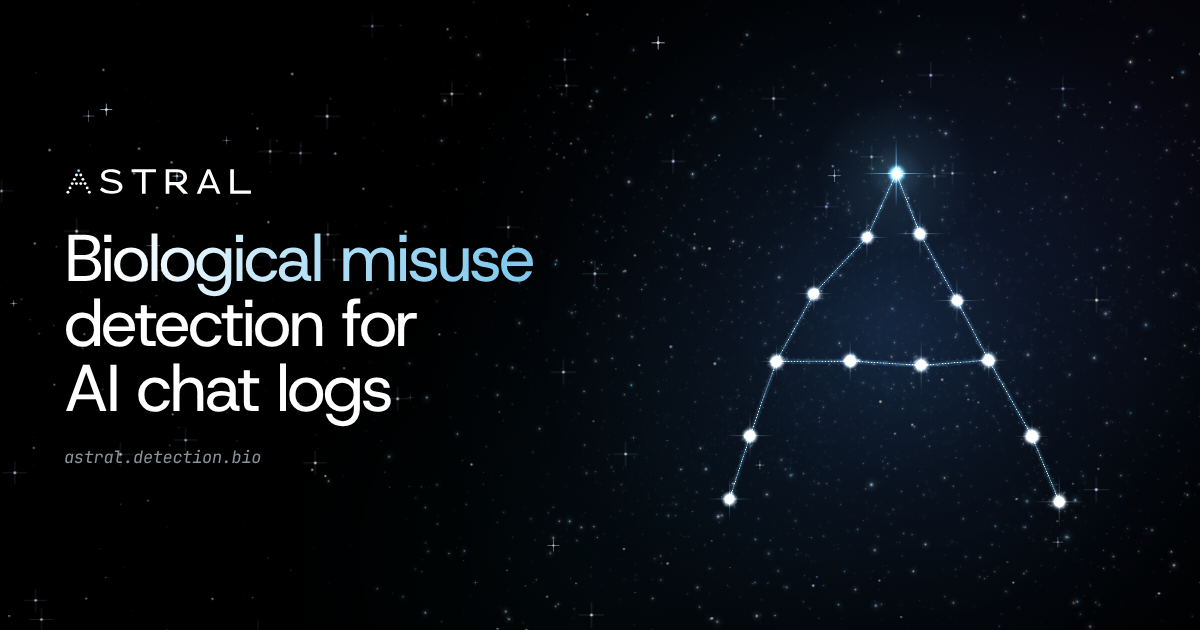
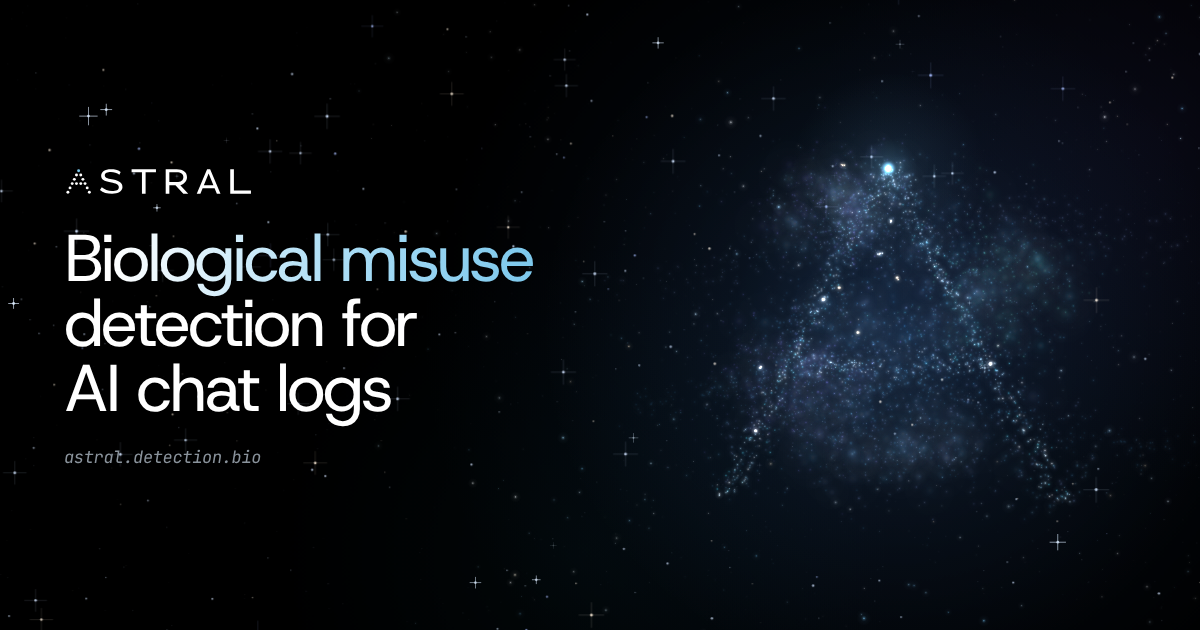
Open with a nebula that forms the ASTRAL mark; drop heading labels
Claude-Session: https://claude.ai/code/session_01GrFGuY8UBKNScDgXKwUbti

diff --git a/docs/scroll-visual.js b/docs/scroll-visual.js
@@ -1,4 +1,4 @@
-/* ASTRAL scroll visual: ASTRAL constellation -> double helix -> transcripts -> flagged -> priority list.
+/* ASTRAL scroll visual: nebula forming the ASTRAL mark -> double helix -> transcripts -> flagged -> priority list.
    Decorative and synthetic: no data, no network requests.
    One 3D particle field seen through a perspective camera. Each stage gives every particle a place;
    moving between stages sends particles along curved paths while the camera glides to a new view. */
@@ -35,7 +35,7 @@
   const SPRITE_K = [1 / .17, 1 / .36]; // half-size of the drawn sprite per unit of dot radius
 
   const STAGES = [
-    { name: 'Constellation', cam: { yaw: -.2, pitch: .08, dist: 4.75, roll: 0, tx: .02, ty: .02, tz: 0 }, arc: .5, tr: 1.7, spread: 1 },
+    { name: 'Nebula', cam: { yaw: -.2, pitch: .08, dist: 4.75, roll: 0, tx: .02, ty: .02, tz: 0 }, arc: .5, tr: 1.7, spread: 1 },
     { name: 'Helix', cam: { yaw: .64, pitch: .1, dist: 4.55, roll: -.4, tx: -.42, ty: .06, tz: 0 }, arc: .45, tr: 1.7, spread: 1 },
     { name: 'Transcripts', cam: { yaw: -.36, pitch: .06, dist: 4.4, roll: 0, tx: .16, ty: 0, tz: .32 }, arc: .5, tr: 1.6, spread: .6 },
     { name: 'Flagged', cam: { yaw: -.3, pitch: .05, dist: 4.2, roll: 0, tx: .16, ty: 0, tz: .32 }, arc: .12, tr: .55 },
@@ -80,75 +80,85 @@
       idx.forEach((slot, rank) => (L.map[rank] = slot));
     }
 
-    // Constellation: the ASTRAL mark drawn as stars. Thirteen bright stars sit where the logo's dots are, dotted
-    // lines join them (the apex first, down both sides together, then the crossbar from both ends), and a deep
-    // field of faint stars and haze surrounds them. Once drawn, a pulse of light runs along the lines now and then.
-    const MARK = [[32, 6], [27, 16], [37, 16], [22, 26], [42, 26], [17, 36], [27, 36], [37, 36], [47, 36], [12, 46], [52, 46], [7, 56], [57, 56]];
-    const MARK_R = 1.2, SEG = .3, DRAWN = 5 * SEG, PULSE = 6.5;
-    // [from, to, start, duration] in seconds from the start of the drawing; point 13 is the middle of the crossbar.
-    const STROKES = [];
-    [[0, 1, 3, 5, 9, 11], [0, 2, 4, 8, 10, 12]].forEach(side => { for (let k = 0; k < 5; k++) STROKES.push([side[k], side[k + 1], k * SEG, SEG]); });
-    STROKES.push([5, 6, 3 * SEG, SEG], [8, 7, 3 * SEG, SEG], [6, 13, 4 * SEG, SEG * .6], [7, 13, 4 * SEG, SEG * .6]);
-    let C0 = .3, lineFade = 0;              // when the drawing starts (seconds into the stage); overlay line strength
-    const starT = new Float32Array(13);     // when each star lights, from the start of the drawing
-    function buildMark() {
-      const r = rng(7), g = gaussian(r), L = slots(N, ['q', 'kind', 'star', 'ph', 'tw']);
-      const pts = MARK.map(([x, y], j) => [(x - 32) / 26 * MARK_R + g() * .018, (31 - y) / 26 * MARK_R + g() * .018, j ? g() * .12 : .22]);
-      pts.push(pts[6].map((v, k) => (v + pts[7][k]) / 2));
-      starT.fill(99); starT[0] = -.15;
-      STROKES.forEach(([a, b, t0, d]) => { starT[a] = Math.min(starT[a], t0); if (b < 13) starT[b] = Math.min(starT[b], t0 + d); });
-      const centre = [];
+    // Nebula: a soft cloud of blue, violet and teal gas with a few young stars. As the page opens, part of the gas
+    // gathers along the strokes of the ASTRAL mark, so a faint "A" forms inside the cloud, its apex an ice-blue star.
+    const MARK_R = 1.2, FORM0 = .35, FORM_T = 2.6;
+    const A_STROKES = [[32, 6, 7, 56], [32, 6, 57, 56], [17, 36, 47, 36]]; // logo units: both sides, then the crossbar
+    const toWorld = (x, y) => [(x - 32) / 26 * MARK_R, (31 - y) / 26 * MARK_R];
+    const APEX = toWorld(32, 6);
+    let C0 = .3, glowFade = 0;            // when the forming starts (seconds into the stage); apex glow strength
+    function formAt() { return reduce.matches ? 1 : ease(clamp((st - C0 - FORM0) / FORM_T)); }
+    function buildNebula() {
+      const r = rng(7), g = gaussian(r), L = slots(N, ['hx', 'hy', 'hz', 'w', 'ph', 'kind']);
       let n = 0;
-      const put = (x, y, z, col, sty, size, a, kind, q, star) => {
-        L.x[n] = x; L.y[n] = y; L.z[n] = z; L.col[n] = col; L.sty[n] = sty; L.size[n] = size; L.a[n] = a;
-        L.kind[n] = kind; L.q[n] = q; L.star[n] = star; L.ph[n] = r() * TAU; L.tw[n] = .3 + r() * 1.4;
+      // (x, y, z) is where a particle settles; (hx, hy, hz) is where it waits in the cloud before the mark forms
+      const put = (x, y, z, hx, hy, hz, col, size, a, kind) => {
+        L.x[n] = x; L.y[n] = y; L.z[n] = z; L.hx[n] = hx; L.hy[n] = hy; L.hz[n] = hz;
+        L.col[n] = col; L.sty[n] = 0; L.size[n] = size; L.a[n] = a; L.kind[n] = kind;
+        L.ph[n] = r() * TAU; L.w[n] = (.4 + r() * .8) * (r() < .5 ? -1 : 1);
         L.key[n] = clamp((x + 3.4) / 6.8 + g() * .01); n++;
       };
-      // stars: a hot core with a soft halo; the first particle of each sits exactly on the star
-      pts.slice(0, 13).forEach(([x, y, z], j) => {
-        const apex = j === 0, core = mobile ? 12 : 20, halo = mobile ? 6 : 12;
-        centre.push(n);
-        for (let k = 0; k < core; k++) { const sp = k ? .007 : 0; put(x + g() * sp, y + g() * sp, z + g() * sp, apex ? BLUE[k % 3 ? 5 : 6] : (k % 4 ? WHITE : BLUE[7]), 0, (apex ? 1.35 : 1.05) + r() * .45, .85, 0, 0, j); }
-        for (let k = 0; k < halo; k++) { const sp = .035 + r() * .04, an = r() * TAU; put(x + Math.cos(an) * sp, y + Math.sin(an) * sp, z + g() * .01, apex ? BLUE[5] : BLUE[6], 0, .5 + r() * .3, .2, 0, 0, j); }
-      });
-      // dotted lines: crisp beads on the line and a soft glow beside it; q is when each bead is reached
-      STROKES.forEach(([a, b, t0, d]) => {
-        const A = pts[a], B = pts[b], len = Math.hypot(B[0] - A[0], B[1] - A[1], B[2] - A[2]), steps = Math.max(4, Math.round(len / .021));
-        for (let k = 1; k < steps; k++) {
-          const v = k / steps, x = mix(A[0], B[0], v), y = mix(A[1], B[1], v), z = mix(A[2], B[2], v);
-          put(x, y, z, BLUE[6], 1, .36, .72, 1, t0 + v * d, -1);
-          if (!mobile || k % 2) put(x + g() * .014, y + g() * .014, z + g() * .01, BLUE[5], 0, .42, .2, 1, t0 + v * d, -1);
-        }
-      });
-      // haze behind the mark, a faint diagonal band far away, and a deep field of stars
-      const room = N - n, nHaze = Math.round(room * .14), nBand = Math.round(room * .12);
-      for (let k = 0; k < nHaze; k++) put(g() * .95, g() * .75 - .05, .4 + Math.abs(g()) * .8, BLUE[2 + Math.floor(r() * 3)], 0, .55 + r() * .4, .05 + r() * .09, 2, 0, -1);
-      for (let k = 0; k < nBand; k++) { const u = r() * 2 - 1; put(u * 3.6, u * 1.1 - .2 + g() * .32, 2.2 + r() * 1.4, BLUE[3 + Math.floor(r() * 3)], 0, .35 + r() * .3, .08 + .14 * r(), 2, 0, -1); }
+      const nGas = Math.round(N * .43), nPuff = Math.round(N * .075), nA = Math.round(N * .27), nStar = mobile ? 3 : 4;
+      // gas: overlapping clouds of different colours, and two faint filaments
+      const blobs = [[0, .05, 0, .95, .8, .45, [BLUE[4], BASE[3], BLUE[3]]], [-.75, -.35, .2, .65, .5, .4, [BASE[1], BASE[1], BLUE[4]]],
+        [.75, .3, -.1, .6, .5, .35, [BASE[2], BASE[0], BLUE[4]]], [.1, -.75, .1, .8, .35, .3, [BASE[3], BLUE[4]]], [-.3, .85, -.2, .55, .35, .3, [BASE[1], BLUE[5]]]];
+      for (let k = 0; k < nGas; k++) {
+        let x, y, z, col;
+        if (r() < .22) { const u = r() * 2 - 1, side = k & 1 ? 1 : -1; x = u * 1.9; y = side * (.55 + .25 * Math.sin(u * 2.2 + side)) + g() * .06; z = g() * .25; col = side > 0 ? BASE[3] : BLUE[4]; }
+        else { const b = blobs[Math.floor(Math.pow(r(), 1.2) * blobs.length)]; x = b[0] + g() * b[3] * .55; y = b[1] + g() * b[4] * .55; z = b[2] + g() * b[5] * .5; col = b[6][Math.floor(r() * b[6].length)]; }
+        const core = Math.exp(-(x * x / 1.1 + y * y / .7));
+        put(x, y, z, x, y, z, col, .45 + r() * .5, .08 + .22 * core * r() + .06 * r(), 0);
+      }
+      // large faint puffs give the cloud volume
+      for (let k = 0; k < nPuff; k++) {
+        const b = blobs[k % blobs.length], x = b[0] + g() * b[3] * .45, y = b[1] + g() * b[4] * .45, z = b[2] + g() * b[5] * .4;
+        put(x, y, z, x, y, z, b[6][k % b[6].length], 2.8 + r() * 2.4, .04 + .045 * r(), 0);
+      }
+      // the mark: gas condensing along each stroke, a bright core with a wider glow around it
+      const lens = A_STROKES.map(([x0, y0, x1, y1]) => Math.hypot(x1 - x0, y1 - y0)), total = lens.reduce((a, b) => a + b);
+      for (let k = 0; k < nA; k++) {
+        let pick = r() * total, j = 0; while (pick > lens[j]) pick -= lens[j++];
+        const [x0, y0, x1, y1] = A_STROKES[j], u = r(), [ax, ay] = toWorld(mix(x0, x1, u), mix(y0, y1, u));
+        const len = lens[j], px = (y1 - y0) / len, py = (x1 - x0) / len, halo = r() < .5, sd = halo ? .12 : .045 + .015 * Math.sin(u * 9 + j);
+        const off = g() * sd, x = ax + px * off, y = ay + py * off, z = g() * (halo ? .08 : .04);
+        const hx = x + g() * .32, hy = y + g() * .3, hz = z + g() * .25;
+        const col = halo ? [BLUE[4], BLUE[5], BASE[3]][Math.floor(r() * 3)] : [BLUE[6], BLUE[7], BLUE[6], BASE[0], WHITE][Math.floor(r() * 5)];
+        put(x, y, z, hx, hy, hz, col, halo ? .65 + r() * .4 : .5 + r() * .4, halo ? .07 + .08 * r() : .2 + .22 * r(), 1);
+      }
+      // young stars: the apex in ice blue, a few small ones on the mark, a few loose in the cloud
+      const starAt = (x, y, z, col, size, count, kind) => { for (let k = 0; k < count; k++) { const sp = k ? .006 : 0; put(x + g() * sp, y + g() * sp, z + g() * sp, x + g() * .2, y + g() * .2, z, col, size * (.8 + r() * .4), .8, kind); } };
+      const apexSlot = n; starAt(APEX[0], APEX[1], .05, BLUE[5], 1.25, mobile ? 10 : 16, 2);
+      [[22, 26], [47, 36], [12, 46]].forEach(([lx, ly]) => { const [x, y] = toWorld(lx, ly); starAt(x, y, g() * .05, WHITE, .8, nStar, 2); });
+      for (let k = 0; k < 7; k++) { const x = g() * .9, y = g() * .6, z = g() * .3; starAt(x, y, z, r() < .7 ? WHITE : WARM[2], .7, nStar, 3); }
+      // a deep field of faint stars behind everything
       while (n < N) {
-        const mag = Math.pow(r(), 2.6), tint = r();
-        put((r() * 2 - 1) * 3.4, (r() * 2 - 1) * 2.2, -1.1 + r() * 4.4, tint < .72 ? BLUE[5 + Math.floor(r() * 4)] : tint < .92 ? WHITE : WARM[2 + Math.floor(r() * 3)], 0, .3 + mag * .75, .12 + .5 * mag, 3, 0, -1);
+        const mag = Math.pow(r(), 2.6), tint = r(), x = (r() * 2 - 1) * 3.4, y = (r() * 2 - 1) * 2.2, z = -1.1 + r() * 4.4;
+        put(x, y, z, x, y, z, tint < .72 ? BLUE[5 + Math.floor(r() * 4)] : tint < .92 ? WHITE : WARM[2 + Math.floor(r() * 3)], .3 + mag * .7, .1 + .45 * mag, 4);
       }
       finishMap(L);
       L.inv = new Int32Array(N); for (let i = 0; i < N; i++) L.inv[L.map[i]] = i;
-      L.centre = centre;
+      L.apex = apexSlot;
       return L;
     }
-    function markAt(s, out) {
-      const kind = C.kind[s], t = st - C0;
-      out.x = C.x[s]; out.y = C.y[s]; out.z = C.z[s];
-      out.col = C.col[s]; out.sty = C.sty[s]; out.size = C.size[s]; out.a = C.a[s]; out.col2 = -1; out.w2 = 0;
-      const pulse = !reduce.matches && t > DRAWN + 1.2 ? (t - DRAWN - 1.2) % PULSE : -9;
-      if (kind === 0) {                        // star: lights when the line reaches it, then flares with each pulse
-        const ts = starT[C.star[s]], on = easeOut((t - ts + .1) / .35), flash = Math.exp(-Math.pow((t - ts - .12) / .16, 2));
-        const pf = pulse > -9 ? Math.exp(-Math.pow((pulse - ts * .8) / .18, 2)) : 0;
-        out.a *= mix(.12, 1, on); out.size *= mix(.55, 1, on) * (1 + .5 * flash + .35 * pf);
-      } else if (kind === 1) {                 // line bead: appears as the drawing passes, brightens as a pulse passes
-        const q = C.q[s], on = clamp((t - q) / .12), pb = pulse > -9 ? Math.exp(-Math.pow((pulse - q * .8) / .09, 2)) : 0;
-        out.a *= on * (1 + 1.1 * pb); out.size *= 1 + .7 * pb;
-        if (pb > .05) { out.col2 = WHITE; out.w2 = Math.min(1, pb); }
-      } else if (kind === 3) {                 // background star: a slow twinkle
-        out.a *= .72 + .28 * Math.sin(clock * C.tw[s] + C.ph[s]);
+    function nebulaAt(s, out) {
+      const kind = C.kind[s], ph = C.ph[s], w = C.w[s];
+      let x = C.x[s], y = C.y[s], z = C.z[s];
+      out.col = C.col[s]; out.sty = 0; out.size = C.size[s]; out.a = C.a[s]; out.col2 = -1; out.w2 = 0;
+      if (kind === 1 || kind === 2) {           // gathers from the cloud into the mark
+        const f = formAt(), k = clamp(f * 1.15 - (ph / TAU) * .15);
+        x = mix(C.hx[s], x, k); y = mix(C.hy[s], y, k); z = mix(C.hz[s], z, k);
+        if (kind === 1) { out.a *= mix(.45, 1, k); x += Math.sin(clock * .5 + ph) * .006; y += Math.cos(clock * .43 + ph) * .006; }
+        else { out.a *= mix(.1, 1, k); out.size *= mix(.5, 1, k) * (1 + .08 * Math.sin(clock * 1.7 + ph)); }
+      } else if (kind === 0) {                  // gas turns slowly and breathes
+        const an = clock * .02 * w, c = Math.cos(an), sn = Math.sin(an);
+        const x0 = x; x = x0 * c - z * sn; z = x0 * sn + z * c; y += Math.sin(clock * .21 + ph) * .02;
+        out.a *= .8 + .2 * Math.sin(clock * .3 + ph);
+      } else if (kind === 3) {
+        out.a *= .75 + .25 * Math.sin(clock * 1.1 + ph);
+      } else {
+        out.a *= .72 + .28 * Math.sin(clock * (.4 + Math.abs(w)) + ph);
       }
+      out.x = x; out.y = y; out.z = z;
     }
 
     // Helix: two glowing backbones, base-pair rungs in two colour pairs, and a faint sheath of drifting particles.
@@ -356,7 +366,7 @@
     }
     function target(i, out) {
       switch (stage) {
-        case 0: markAt(C.map[i], out); break;
+        case 0: nebulaAt(C.map[i], out); break;
         case 1: helixAt(HX.map[i], out); break;
         default: cardAt(CD.map[i], stage - 2, out);
       }
@@ -445,8 +455,8 @@
       }
       ctx.globalAlpha = 1;
       if (cardStage && nCards) overlays();
-      lineFade = stage === 0 ? 1 : lineFade * Math.exp(-dt * 7);
-      if (lineFade > .01) markOverlay();
+      glowFade = stage === 0 ? 1 : glowFade * Math.exp(-dt * 6);
+      if (glowFade > .01) apexGlow();
       ctx.globalCompositeOperation = 'source-over';
     }
     function dot(sty, col, x, y, rad, alpha) {
@@ -528,45 +538,15 @@
       }
     }
 
-    // Constellation extras, drawn flat over the particles: a hairline along each stroke, light spikes on the stars,
-    // a ring as each star lights, and a breathing glow on the apex. Lines follow the stars as they fly off to the helix.
-    const SP = Array.from({ length: 14 }, () => ({ x: 0, y: 0, s: 1, v: false }));
-    function markOverlay() {
-      const t = stage === 0 ? st - C0 : 99, fade = lineFade;
-      for (let j = 0; j < 13; j++) { const i = C.inv[C.centre[j]]; project(X[i], Y[i], Z[i], pj); Object.assign(SP[j], pj); }
-      SP[13].x = (SP[6].x + SP[7].x) / 2; SP[13].y = (SP[6].y + SP[7].y) / 2; SP[13].v = SP[6].v && SP[7].v;
-      ctx.globalCompositeOperation = 'lighter'; ctx.lineCap = 'round';
-      for (const [a, b, t0, d] of STROKES) {
-        const f = clamp((t - t0) / d); if (f <= 0 || !SP[a].v || !SP[b].v) continue;
-        const A = SP[a], B = SP[b], x = mix(A.x, B.x, f), y = mix(A.y, B.y, f);
-        ctx.globalAlpha = .1 * fade; ctx.strokeStyle = 'rgb(124,200,236)'; ctx.lineWidth = 5; ctx.beginPath(); ctx.moveTo(A.x, A.y); ctx.lineTo(x, y); ctx.stroke();
-        ctx.globalAlpha = .32 * fade; ctx.strokeStyle = 'rgb(190,228,250)'; ctx.lineWidth = 1; ctx.beginPath(); ctx.moveTo(A.x, A.y); ctx.lineTo(x, y); ctx.stroke();
-      }
-      const unit = F / 600;
-      for (let j = 0; j < 13; j++) {
-        const P = SP[j]; if (!P.v) continue;
-        const on = easeOut((t - starT[j] + .1) / .35); if (on <= 0) continue;
-        const apex = !j, L = (apex ? 30 : 15 + (j * 7 % 5) * 2) * unit * on * (stage === 0 ? 1 : fade);
-        const col = apex ? '124,200,236' : '220,236,255';
-        for (const [dx, dy] of [[1, 0], [0, 1]]) {
-          const gr = ctx.createLinearGradient(P.x - dx * L, P.y - dy * L, P.x + dx * L, P.y + dy * L);
-          gr.addColorStop(0, `rgba(${col},0)`); gr.addColorStop(.5, `rgba(${col},${(apex ? .75 : .45) * fade})`); gr.addColorStop(1, `rgba(${col},0)`);
-          ctx.globalAlpha = 1; ctx.strokeStyle = gr; ctx.lineWidth = apex ? 1.2 : .8;
-          ctx.beginPath(); ctx.moveTo(P.x - dx * L, P.y - dy * L); ctx.lineTo(P.x + dx * L, P.y + dy * L); ctx.stroke();
-        }
-        const rp = (t - starT[j] - .05) / .9;
-        if (rp > 0 && rp < 1 && !reduce.matches) {
-          ctx.globalAlpha = (1 - rp) * (1 - rp) * .5 * fade; ctx.strokeStyle = `rgb(${col})`; ctx.lineWidth = 1;
-          ctx.beginPath(); ctx.arc(P.x, P.y, (6 + 34 * easeOut(rp)) * unit * (apex ? 1.4 : 1), 0, TAU); ctx.stroke();
-        }
-        if (apex) {
-          const br = (.8 + .2 * Math.sin(clock * 1.3)) * on * fade, rad = 70 * unit;
-          const gl = ctx.createRadialGradient(P.x, P.y, 0, P.x, P.y, rad);
-          gl.addColorStop(0, `rgba(124,200,236,${.3 * br})`); gl.addColorStop(.35, `rgba(124,200,236,${.08 * br})`); gl.addColorStop(1, 'rgba(124,200,236,0)');
-          ctx.globalAlpha = 1; ctx.fillStyle = gl; ctx.fillRect(P.x - rad, P.y - rad, rad * 2, rad * 2);
-        }
-      }
-      ctx.globalAlpha = 1; ctx.globalCompositeOperation = 'source-over';
+    // A soft ice-blue glow on the apex star, growing as the mark forms; it follows the star when it flies off.
+    function apexGlow() {
+      const i = C.inv[C.apex];
+      project(X[i], Y[i], Z[i], pj); if (!pj.v) return;
+      const f = stage === 0 ? formAt() : 1, br = (.85 + .15 * Math.sin(clock * 1.2)) * f * glowFade, rad = F * .14;
+      const gl = ctx.createRadialGradient(pj.x, pj.y, 0, pj.x, pj.y, rad);
+      gl.addColorStop(0, `rgba(124,200,236,${.26 * br})`); gl.addColorStop(.3, `rgba(124,200,236,${.07 * br})`); gl.addColorStop(1, 'rgba(124,200,236,0)');
+      ctx.globalCompositeOperation = 'lighter'; ctx.globalAlpha = 1; ctx.fillStyle = gl; ctx.fillRect(pj.x - rad, pj.y - rad, rad * 2, rad * 2);
+      ctx.globalCompositeOperation = 'source-over';
     }
 
     /* ---------- loop and lifecycle ---------- */
@@ -577,7 +557,7 @@
       schedule();
     }
     function schedule() { if (!raf && visible && !document.hidden && !reduce.matches && N) raf = requestAnimationFrame(tick); }
-    function still() { st = stage === 3 ? 4.5 : stage === 4 ? 3 : stage === 0 ? C0 + DRAWN + 1 : 0; TR = 0; frame(0, true); }
+    function still() { st = stage === 3 ? 4.5 : stage === 4 ? 3 : stage === 0 ? C0 + FORM0 + FORM_T + 1 : 0; TR = 0; frame(0, true); }
 
     function init() {
       cancelAnimationFrame(raf); raf = 0; last = 0;
@@ -596,7 +576,7 @@
       R0 = mobile ? 1.0 : clamp(F / 660, 1.0, 1.5);
       if (!SPRITES) SPRITES = [PAL.map(c => sprite(c, false)), PAL.map(c => sprite(c, true))];
       alloc();
-      C = buildMark(); HX = buildHelix(); CD = buildCards();
+      C = buildNebula(); HX = buildHelix(); CD = buildCards();
       bx0 = new Float32Array(cards.length); by0 = new Float32Array(cards.length); bx1 = new Float32Array(cards.length); by1 = new Float32Array(cards.length);
       buildBackdrop();
       { const r = rng(404); twinkle = Array.from({ length: mobile ? 24 : 54 }, () => [r(), r(), .6 + r() * .9, .25 + r() * .5, r() * TAU]); }

diff --git a/docs/index.html b/docs/index.html
@@ -11,12 +11,12 @@
 <meta property="og:title" content="ASTRAL — Biological misuse detection for AI chat logs">
 <meta property="og:description" content="ASTRAL scans an organization’s own AI chat logs for biological misuse and ranks conversations for human review. Try the demo or contact ASTRAL@detection.bio.">
 <meta property="og:url" content="https://astral.detection.bio/">
-<meta property="og:image" content="https://astral.detection.bio/assets/social-preview.png?v=d7281f90005f">
+<meta property="og:image" content="https://astral.detection.bio/assets/social-preview.png?v=64b65c95d713">
 <meta property="og:image:width" content="1200">
 <meta property="og:image:height" content="630">
-<meta property="og:image:alt" content="ASTRAL: biological misuse detection for AI chat logs, beside the ASTRAL mark drawn as a constellation">
+<meta property="og:image:alt" content="ASTRAL: biological misuse detection for AI chat logs, beside a nebula in which the ASTRAL mark forms">
 <meta name="twitter:card" content="summary_large_image">
-<meta name="twitter:image" content="https://astral.detection.bio/assets/social-preview.png?v=d7281f90005f">
+<meta name="twitter:image" content="https://astral.detection.bio/assets/social-preview.png?v=64b65c95d713">
 <link rel="icon" href="assets/favicon.svg" type="image/svg+xml">
 <link rel="icon" href="assets/favicon.ico" sizes="32x32">
 <link rel="apple-touch-icon" href="assets/apple-touch-icon.png">
@@ -70,7 +70,6 @@ a:focus-visible,button:focus-visible{outline:2px solid var(--ice);outline-offset
 .js .step.is-active{opacity:1;transform:none}
 .step .count{display:flex;align-items:center;gap:12px;font-size:12.5px;color:var(--ice)}
 .step .count::after{content:"";width:48px;height:1px;background:linear-gradient(90deg,var(--ice),transparent)}
-.step .eyebrow{font-size:12.5px;letter-spacing:.14em;text-transform:uppercase;color:var(--muted)}
 .step h2{font-weight:400;font-size:clamp(32px,3.2vw,48px);line-height:1.04;letter-spacing:-.028em;color:var(--ink);text-wrap:balance}
 .step p.body{font-size:19px;line-height:1.62;color:var(--text);max-width:31em}
 .step p.body strong{color:#fff;font-weight:500}
@@ -90,7 +89,6 @@ a:focus-visible,button:focus-visible{outline:2px solid var(--ice);outline-offset
 /* sections below */
 .section{position:relative;z-index:2;border-top:1px solid var(--line);padding-block:clamp(80px,10vw,140px)}
 .section-head{display:flex;align-items:end;justify-content:space-between;gap:24px;margin-bottom:44px}
-.section-head .eyebrow{font-size:12.5px;letter-spacing:.14em;text-transform:uppercase;color:var(--muted);margin-bottom:14px}
 .section-head h2{font-weight:400;font-size:clamp(34px,3.6vw,54px);line-height:1.02;letter-spacing:-.03em;color:#fff}
 #contact{background:radial-gradient(60% 90% at 85% 40%,rgba(40,90,140,.16),transparent 70%),radial-gradient(40% 60% at 10% 80%,rgba(244,184,86,.05),transparent 70%)}
 .contact{display:grid;grid-template-columns:minmax(0,1.1fr) minmax(0,.9fr);gap:56px;align-items:end}
@@ -163,7 +161,7 @@ a:focus-visible,button:focus-visible{outline:2px solid var(--ice);outline-offset
 <main id="top">
   <div class="scrolly">
     <div class="pin">
-      <canvas role="img" aria-label="Dotted visual that changes as you scroll: a constellation in the shape of the ASTRAL mark, a DNA double helix, a wall of chat transcripts, five transcripts flagged while the rest fade, and a list ranked priority 1 to 3."></canvas>
+      <canvas role="img" aria-label="Dotted visual that changes as you scroll: a nebula in which the ASTRAL mark forms, a DNA double helix, a wall of chat transcripts, five transcripts flagged while the rest fade, and a list ranked priority 1 to 3."></canvas>
     </div>
     <div class="steps">
     <section class="step hero is-active" data-stage="0" aria-label="Introduction">
@@ -175,25 +173,21 @@ a:focus-visible,button:focus-visible{outline:2px solid var(--ice);outline-offset
     </section>
     <section class="step" data-stage="1">
       <p class="count i">02 / 05</p>
-      <p class="eyebrow i">The gap</p>
       <h2>AI bio-capabilities are advancing</h2>
       <p class="body">AI already outperforms expert virologists on wet-lab troubleshooting in test settings <span class="cite">[5]</span>, and leading open-weight models trail closed frontier models by about eight months in biological capabilities <span class="cite">[6]</span>. <strong>If this trend continues, today’s frontier biological capabilities could reach unmonitored platforms in less than a year.</strong></p>
     </section>
     <section class="step" data-stage="2">
       <p class="count i">03 / 05</p>
-      <p class="eyebrow i">What it is</p>
       <h2>ASTRAL reads whole conversations</h2>
       <p class="body">Intent accumulates across turns (persistence past refusals, session-hopping, incremental progress) and rarely sits in one flaggable message. ASTRAL runs always-on against incoming logs or retrospectively over historical ones.</p>
     </section>
     <section class="step" data-stage="3">
       <p class="count i">04 / 05</p>
-      <p class="eyebrow i">How it works</p>
       <h2>Most logs are discarded cheaply</h2>
       <p class="body">A keyword filter and an embedding filter discard the majority of logs. Only the small remainder reaches the LLM scanner, which classifies each transcript against the variable table and writes the risk report.</p>
     </section>
     <section class="step" data-stage="4">
       <p class="count i">05 / 05</p>
-      <p class="eyebrow i">For human review</p>
       <h2>Each flagged case gets a review priority</h2>
       <p class="body">ASTRAL distills each flagged conversation into a structured risk report for a human reviewer: apparent actor and goal, the threat pathway implicated, and a review priority.</p>
     </section>
@@ -209,13 +203,13 @@ a:focus-visible,button:focus-visible{outline:2px solid var(--ice);outline-offset
   <div class="wrap">
   <section class="section" id="contact" aria-labelledby="contact-title">
     <div class="contact">
-      <div><p class="eyebrow i" style="font-size:12.5px;letter-spacing:.14em;text-transform:uppercase;color:var(--muted);margin-bottom:18px">Collaborate</p><h2 id="contact-title">Seeking a real-world validation partner</h2></div>
+      <div><h2 id="contact-title">Seeking a real-world validation partner</h2></div>
       <div class="side"><p>We’re seeking a log-holding collaborator to validate ASTRAL in a real deployment. We’ll adapt ASTRAL to your platform and work with your team to strengthen bio-misuse detection.</p><a class="mail" href="mailto:ASTRAL@detection.bio">ASTRAL@detection.bio</a><p class="note">Interested in collaborating, or want to learn more? Get in touch.</p></div>
     </div>
   </section>
 
   <section class="section" id="read-more" aria-labelledby="read-title">
-    <div class="section-head"><div><p class="eyebrow i">Project summary</p><h2 id="read-title">Read more</h2></div></div>
+    <div class="section-head"><div><h2 id="read-title">Read more</h2></div></div>
     <a class="summary-card" href="summary.html">
       <span class="shot"><img src="assets/summary-preview.webp" width="1200" height="430" alt="Preview of the visual overview on the project summary page" loading="lazy" decoding="async"></span>
       <span class="txt">
@@ -228,7 +222,7 @@ a:focus-visible,button:focus-visible{outline:2px solid var(--ice);outline-offset
   </section>
 
   <section class="section" id="team" aria-labelledby="team-title">
-    <div class="section-head"><div><p class="eyebrow i">Team</p><h2 id="team-title">The people behind ASTRAL</h2></div></div>
+    <div class="section-head"><div><h2 id="team-title">The people behind ASTRAL</h2></div></div>
     <h3 class="team-group i" id="current-members-title">Current members</h3>
     <ul class="team-members" aria-labelledby="current-members-title">
       <li class="member member--multi"><a class="member-target" href="https://colbyfagan.com" aria-label="Colby Fagan personal website"></a><img src="assets/team/colby-fagan.jpg" alt="" width="640" height="640" loading="lazy" decoding="async"><div class="member-info"><h4>Colby Fagan</h4><div class="profile-links"><a class="profile-link" href="https://colbyfagan.com">Personal website</a><a class="profile-link" href="https://www.linkedin.com/in/colby-fagan/">LinkedIn</a></div></div></li>
@@ -248,7 +242,7 @@ a:focus-visible,button:focus-visible{outline:2px solid var(--ice);outline-offset
   </footer>
   </div>
 </main>
-<script src="scroll-visual.js?v=4d0181a77086"></script>
+<script src="scroll-visual.js?v=f06f231cb977"></script>
 <script>
 (() => {
   const canvas = document.querySelector('.pin canvas');

diff --git a/docs/summary.html b/docs/summary.html
@@ -11,12 +11,12 @@
 <meta property="og:title" content="ASTRAL — Project summary">
 <meta property="og:description" content="The gap ASTRAL addresses, how it works, who runs it, and sources, with a visual overview and the one-page PDF.">
 <meta property="og:url" content="https://astral.detection.bio/summary.html">
-<meta property="og:image" content="https://astral.detection.bio/assets/social-preview.png?v=d7281f90005f">
+<meta property="og:image" content="https://astral.detection.bio/assets/social-preview.png?v=64b65c95d713">
 <meta property="og:image:width" content="1200">
 <meta property="og:image:height" content="630">
-<meta property="og:image:alt" content="ASTRAL: biological misuse detection for AI chat logs, beside the ASTRAL mark drawn as a constellation">
+<meta property="og:image:alt" content="ASTRAL: biological misuse detection for AI chat logs, beside a nebula in which the ASTRAL mark forms">
 <meta name="twitter:card" content="summary_large_image">
-<meta name="twitter:image" content="https://astral.detection.bio/assets/social-preview.png?v=d7281f90005f">
+<meta name="twitter:image" content="https://astral.detection.bio/assets/social-preview.png?v=64b65c95d713">
 <link rel="icon" href="assets/favicon.svg" type="image/svg+xml">
 <link rel="icon" href="assets/favicon.ico" sizes="32x32">
 <link rel="apple-touch-icon" href="assets/apple-touch-icon.png">
